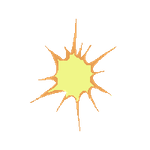
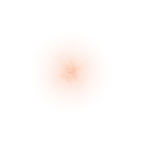
update exploreAnimation

diff --git a/Scripts/scenes/Play.ts b/Scripts/scenes/Play.ts
@@ -159,6 +159,13 @@ module scenes
             let chopperImg7 = document.createElement('img')
             let chopperImg8 = document.createElement('img')
             let chopperImg9 = document.createElement('img')
+            let chopperImg10 = document.createElement('img')
+            let chopperImg11 = document.createElement('img')
+            let chopperImg12 = document.createElement('img')
+            let chopperImg13 = document.createElement('img')
+            let chopperImg14 = document.createElement('img')
+            let chopperImg15 = document.createElement('img')
+            let chopperImg16 = document.createElement('img')
 
             chopperImg1.src = "./Assets/images/e1.png";
             chopperImg2.src = "./Assets/images/e2.png";
@@ -169,19 +176,27 @@ module scenes
             chopperImg7.src = "./Assets/images/e7.png";
             chopperImg8.src = "./Assets/images/e8.png";
             chopperImg9.src = "./Assets/images/e9.png";
+            chopperImg10.src = "./Assets/images/e10.png";
+            chopperImg11.src = "./Assets/images/e11.png";
+            chopperImg12.src = "./Assets/images/e12.png";
+            chopperImg13.src = "./Assets/images/e13.png";
+            chopperImg14.src = "./Assets/images/e14.png";
+            chopperImg15.src = "./Assets/images/e15.png";
+            chopperImg16.src = "./Assets/images/e16.png";
 
                 let spriteSheet = new createjs.SpriteSheet({
                     images: [ chopperImg1, chopperImg2, chopperImg3, chopperImg4, chopperImg5,
-                        chopperImg6,chopperImg7, chopperImg8, chopperImg9],
-                    frames: { width: 150, height: 150, count: 10},
+                        chopperImg6,chopperImg7, chopperImg8, chopperImg9, chopperImg10, 
+                        chopperImg11, chopperImg12, chopperImg13, chopperImg14, chopperImg15, chopperImg16],
+                    frames: { width: 150, height: 150, count: 17},
                     animations: {
-                        explore: [0, 9, false]
+                        explore: [0, 16, false]
                     }
                 });
                 let animation = new createjs.Sprite(spriteSheet);
                 animation.x = obX -65;
                 animation.y = obY -50;
-                animation.spriteSheet.getAnimation('explore').speed = 0.2;
+                animation.spriteSheet.getAnimation('explore').speed = 0.5;
                 animation.gotoAndPlay('explore');
 
                 this.addChild(animation);

diff --git a/Scripts/scenes/Play.js b/Scripts/scenes/Play.js
@@ -141,6 +141,13 @@ var scenes;
             var chopperImg7 = document.createElement('img');
             var chopperImg8 = document.createElement('img');
             var chopperImg9 = document.createElement('img');
+            var chopperImg10 = document.createElement('img');
+            var chopperImg11 = document.createElement('img');
+            var chopperImg12 = document.createElement('img');
+            var chopperImg13 = document.createElement('img');
+            var chopperImg14 = document.createElement('img');
+            var chopperImg15 = document.createElement('img');
+            var chopperImg16 = document.createElement('img');
             chopperImg1.src = "./Assets/images/e1.png";
             chopperImg2.src = "./Assets/images/e2.png";
             chopperImg3.src = "./Assets/images/e3.png";
@@ -150,18 +157,26 @@ var scenes;
             chopperImg7.src = "./Assets/images/e7.png";
             chopperImg8.src = "./Assets/images/e8.png";
             chopperImg9.src = "./Assets/images/e9.png";
+            chopperImg10.src = "./Assets/images/e10.png";
+            chopperImg11.src = "./Assets/images/e11.png";
+            chopperImg12.src = "./Assets/images/e12.png";
+            chopperImg13.src = "./Assets/images/e13.png";
+            chopperImg14.src = "./Assets/images/e14.png";
+            chopperImg15.src = "./Assets/images/e15.png";
+            chopperImg16.src = "./Assets/images/e16.png";
             var spriteSheet = new createjs.SpriteSheet({
                 images: [chopperImg1, chopperImg2, chopperImg3, chopperImg4, chopperImg5,
-                    chopperImg6, chopperImg7, chopperImg8, chopperImg9],
-                frames: { width: 150, height: 150, count: 10 },
+                    chopperImg6, chopperImg7, chopperImg8, chopperImg9, chopperImg10,
+                    chopperImg11, chopperImg12, chopperImg13, chopperImg14, chopperImg15, chopperImg16],
+                frames: { width: 150, height: 150, count: 17 },
                 animations: {
-                    explore: [0, 9, false]
+                    explore: [0, 16, false]
                 }
             });
             var animation = new createjs.Sprite(spriteSheet);
             animation.x = obX - 65;
             animation.y = obY - 50;
-            animation.spriteSheet.getAnimation('explore').speed = 0.2;
+            animation.spriteSheet.getAnimation('explore').speed = 0.5;
             animation.gotoAndPlay('explore');
             this.addChild(animation);
         };

diff --git a/Scripts/scenes/Start.ts b/Scripts/scenes/Start.ts
@@ -25,8 +25,6 @@ module scenes
 
         public Start(): void 
         {
-            
-
             this._background = new objects.Background();
             this._firstSceen = new objects.Image(config.Game.ASSETS.getResult("firstScreen"), 320, 400, true);
             this._startButton = new objects.Button(config.Game.ASSETS.getResult("startButton"), 320, 580, true);
